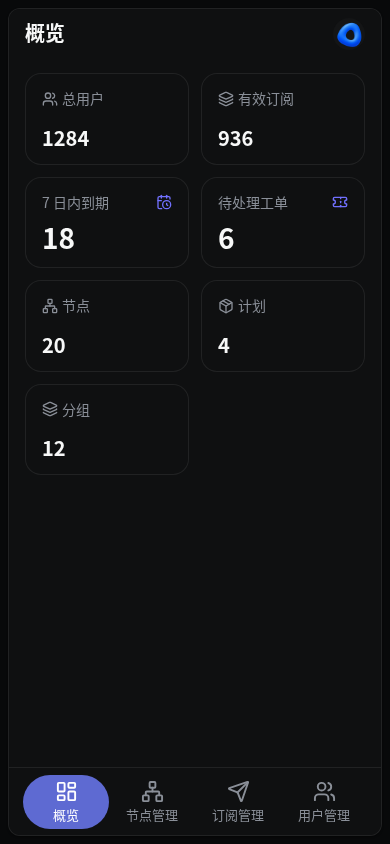
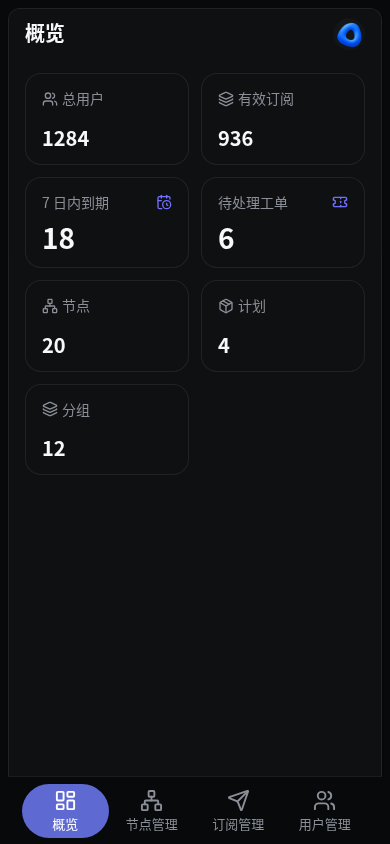
Fix mobile inset dock shell geometry

diff --git a/src/styles/app.css b/src/styles/app.css
@@ -395,15 +395,29 @@ tbody tr:last-child td { border-bottom: 0; }
     box-shadow: 0 8px 24px rgb(0 0 0 / 0.12), 0 2px 6px rgb(0 0 0 / 0.06);
     backdrop-filter: blur(18px);
   }
-  .app-layout[data-mobile-bar="inset"] .workspace { grid-template-rows: auto minmax(0, 1fr) auto; }
+  .app-layout[data-mobile-bar="inset"] {
+    display: grid;
+    height: 100dvh;
+    grid-template-columns: minmax(0, 1fr);
+    grid-template-rows: minmax(0, 1fr) auto;
+  }
+  .app-layout[data-mobile-bar="inset"] .workspace {
+    height: auto;
+    margin-bottom: 0;
+    align-self: stretch;
+    border-bottom: 0;
+    border-bottom-left-radius: 0;
+    border-bottom-right-radius: 0;
+  }
   .app-layout[data-mobile-bar="inset"] :is(.dock, .admin-mobile-dock) {
     position: static;
     height: calc(var(--mobile-bar-height) + var(--mobile-bar-safe-bottom));
+    margin-inline: var(--space-2);
     padding: 6px max(14px, env(safe-area-inset-right, 0px)) calc(6px + var(--mobile-bar-safe-bottom)) max(14px, env(safe-area-inset-left, 0px));
     border: 0;
     border-top: 1px solid var(--color-border);
     border-radius: 0 0 var(--radius-sheet) var(--radius-sheet);
-    background: var(--color-surface);
+    background: var(--color-canvas);
     box-shadow: none;
     backdrop-filter: none;
   }

diff --git a/src/app/AppShell.tsx b/src/app/AppShell.tsx
@@ -220,12 +220,12 @@ export function AppShell({ children }: { children: ReactNode }) {
           leadingTools={!hasAdminTopbar && <button className="icon-button sidebar-toggle" type="button" aria-label={sidebarCollapsed ? '展开侧栏' : '收起侧栏'} title={sidebarCollapsed ? '展开侧栏' : '收起侧栏'} onClick={toggleSidebar}>{sidebarCollapsed ? <ChevronsRight aria-hidden="true" size={16} /> : <ChevronsLeft aria-hidden="true" size={16} />}</button>}
           tools={!isAdmin && <ThemeMenu />}
           account={isAdmin && <div className="topbar-account"><AdminAccount placement="mobile" layout={adminLayout} onLayoutChange={changeAdminLayout} signOut={signOut} onError={setSignOutError} /></div>}
-          footer={mobileDock}
           tabs={adminDomain?.section && <SectionTabs {...adminDomain.section} />}
         >
           {signOutError ? <p role="alert">{signOutError}</p> : null}
           {children}
         </PageFrame>
+        {mobileDock}
       </MobileBarContext>
     </div>
   )

diff --git a/src/ui/PageFrame.tsx b/src/ui/PageFrame.tsx
@@ -1,13 +1,12 @@
 import { useMemo, useState, type ReactNode } from 'react'
 import { PageHeaderSlots } from './page-header-slots'
 
-export function PageFrame({ path, leadingTools, tools, account, tabs, footer, children }: {
+export function PageFrame({ path, leadingTools, tools, account, tabs, children }: {
   path: string
   leadingTools?: ReactNode
   tools?: ReactNode
   account?: ReactNode
   tabs?: ReactNode
-  footer?: ReactNode
   children: ReactNode
 }) {
   const [title, setTitle] = useState<HTMLDivElement | null>(null)
@@ -28,7 +27,6 @@ export function PageFrame({ path, leadingTools, tools, account, tabs, footer, ch
           {tabs}
           {children}
         </main>
-        {footer}
       </div>
     </PageHeaderSlots>
   )

diff --git a/REPORT_MOBILE_BAR_FIX.md b/REPORT_MOBILE_BAR_FIX.md
@@ -1,0 +1,36 @@
+# 移动端内嵌底栏几何修正报告
+
+分支 `task/mobile-bar-inset-fix`，基线 `793df2d0`，提交身份 `Muse <muse@outtw.com>`
+
+## 变更文件
+
+| 文件 | 变更 |
+| --- | --- |
+| `src/app/AppShell.tsx` | 管理端与用户端底栏作为应用外壳的直接子元素渲染，与内容面板同级 |
+| `src/ui/PageFrame.tsx` | 移除原底栏插槽，保留标题栏和内容滚动区 |
+| `src/styles/app.css` | 窄屏 inset 在外壳网格中为底栏分配独立行，使用窗口画布底色，面板和底栏同宽对齐并共用直边接缝 |
+| `development/test-mobile-bar-inset.mjs` | 覆盖两种底栏的几何、偏好、键盘操作与安全区，只重新生成 inset 截图 |
+| `development/screenshots/mobile-bar-inset/` | 更新管理端与用户端 390px 浅色及深色各一张，另更新管理端 320px 浅色滚动底部一张 |
+
+## 几何断言结果
+
+1. 管理端 `.admin-mobile-dock` 与用户端 `.nav-dock` 均与 `.workspace` 同级，父元素均为 `.app-layout`
+2. inset 底栏底边等于视口底边，顶边等于面板底边，左右边界与面板对齐。以 0px 和 34px 底部安全区均通过，安全区增加底栏内部底部留白
+3. inset 面板上、左、右边距及上两角圆角与 floating 相同，底部外边距和底角圆角均为 0，底栏下两角沿用面板原圆角
+4. inset 滚动区底边等于底栏顶边，外壳网格按底栏实际占高分配滚动区。在 320px 宽度滚到底后，最后一条节点与分页区完整可见
+5. floating 保留面板四周 8px 边距、底栏左右 19px 间距、距视口底边 9px 加安全区、68px 高度、34px 圆角、阴影和模糊。四张原 floating 截图字节一致
+6. 默认 floating，保留 `subpanel:mobile-bar`、管理端头像菜单分段控件和用户端「我的」显示设置。验证键盘切换、Esc 焦点恢复、跨角色读取、刷新持久化及无效值回退。保留导航入口、选中态及跳转，768px 和 1440px 隐藏移动底栏与切换控件
+
+## 验证
+
+- `npm run check` 通过，0 错误
+- 生产构建通过，Vite 提示主 JS chunk 大于 500 kB
+- 五个既有套件通过，Worker 514、页面 227、controls 33、subscriptions 14、templates 93
+- `node development/test-mobile-bar-inset.mjs` 对生产静态构建运行通过，减弱动画断言兼容 `0ms` 与压缩后的 `0s`
+
+## 未做项
+
+真机安全区未实测，使用 Chromium 注入 34px 安全区完成验证。生产部署未执行
+
+构建产物和验证日志位于 `/data/tmp/mobile-bar-inset-fix/`，交付包位于 `/data/tmp/mobile-bar-inset-fix.bundle`，以 `793df2d0` 为前置提交
+CODEX_MOBILE_BAR_FIX_DONE
